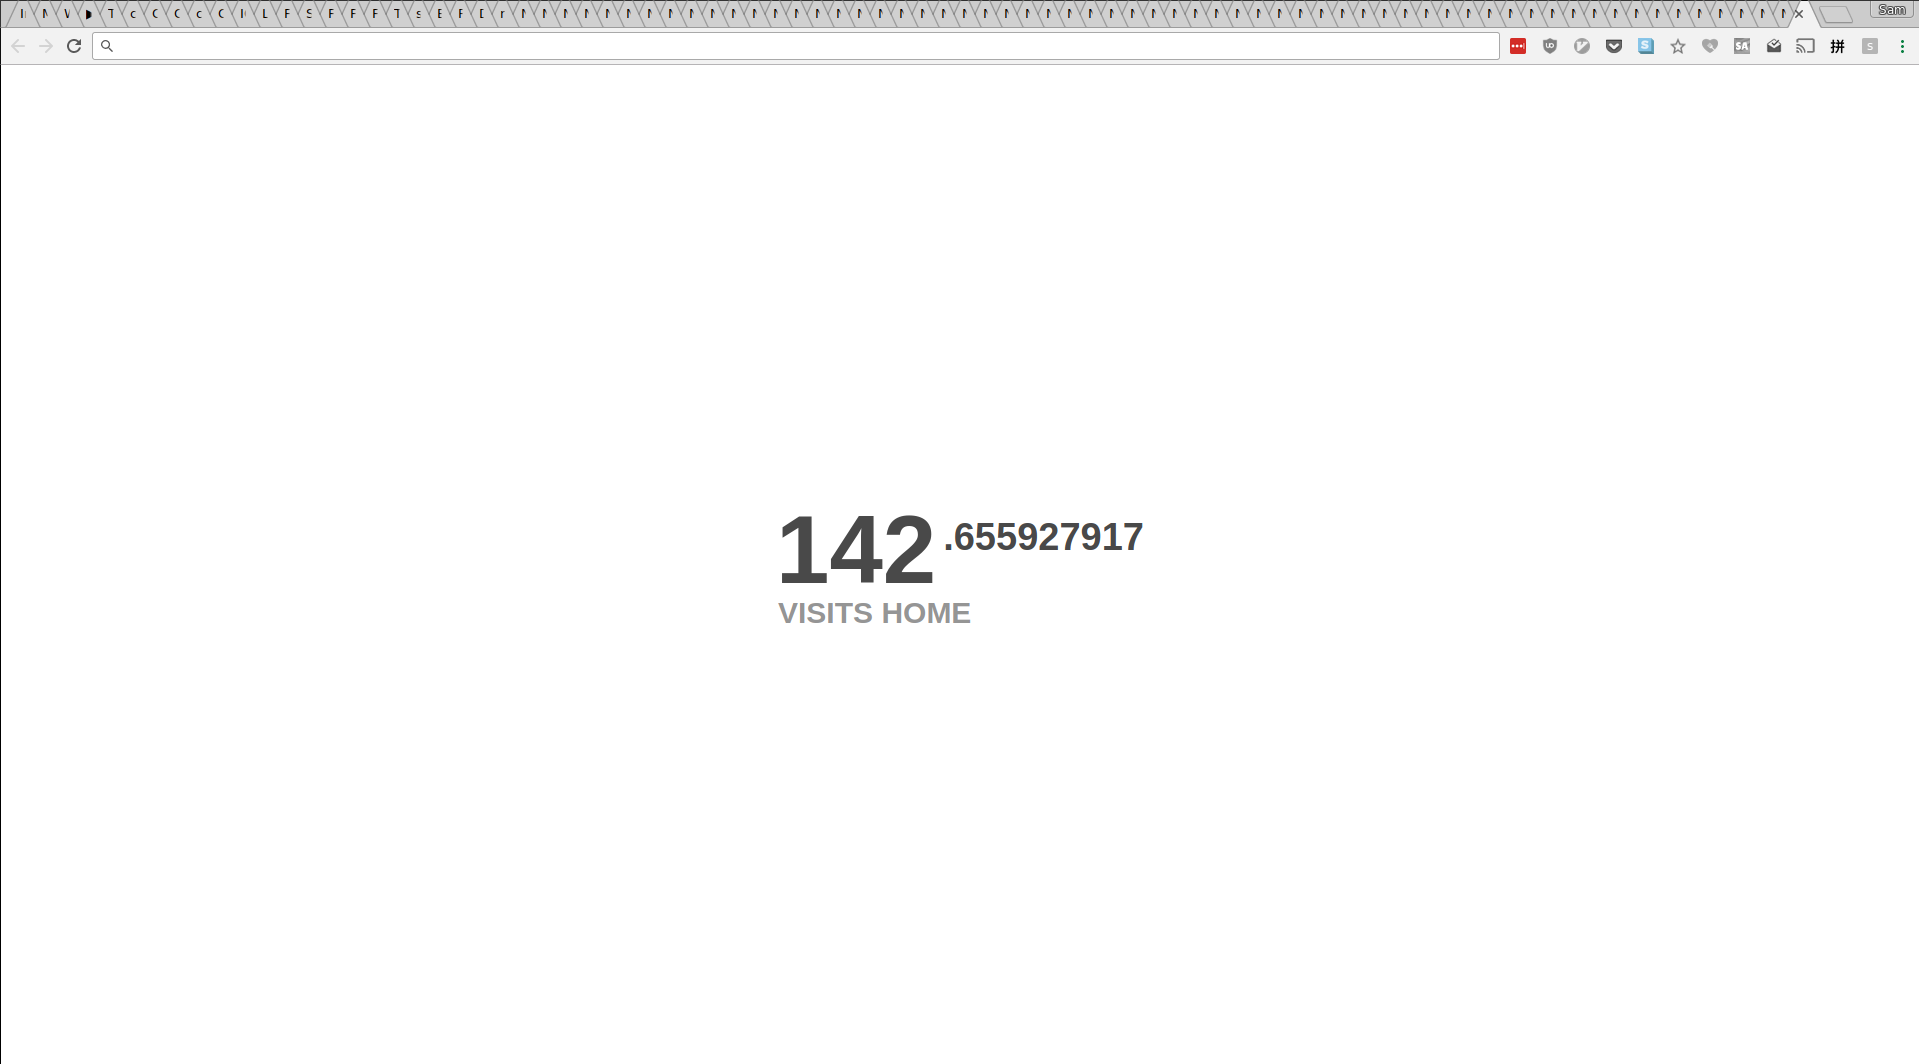
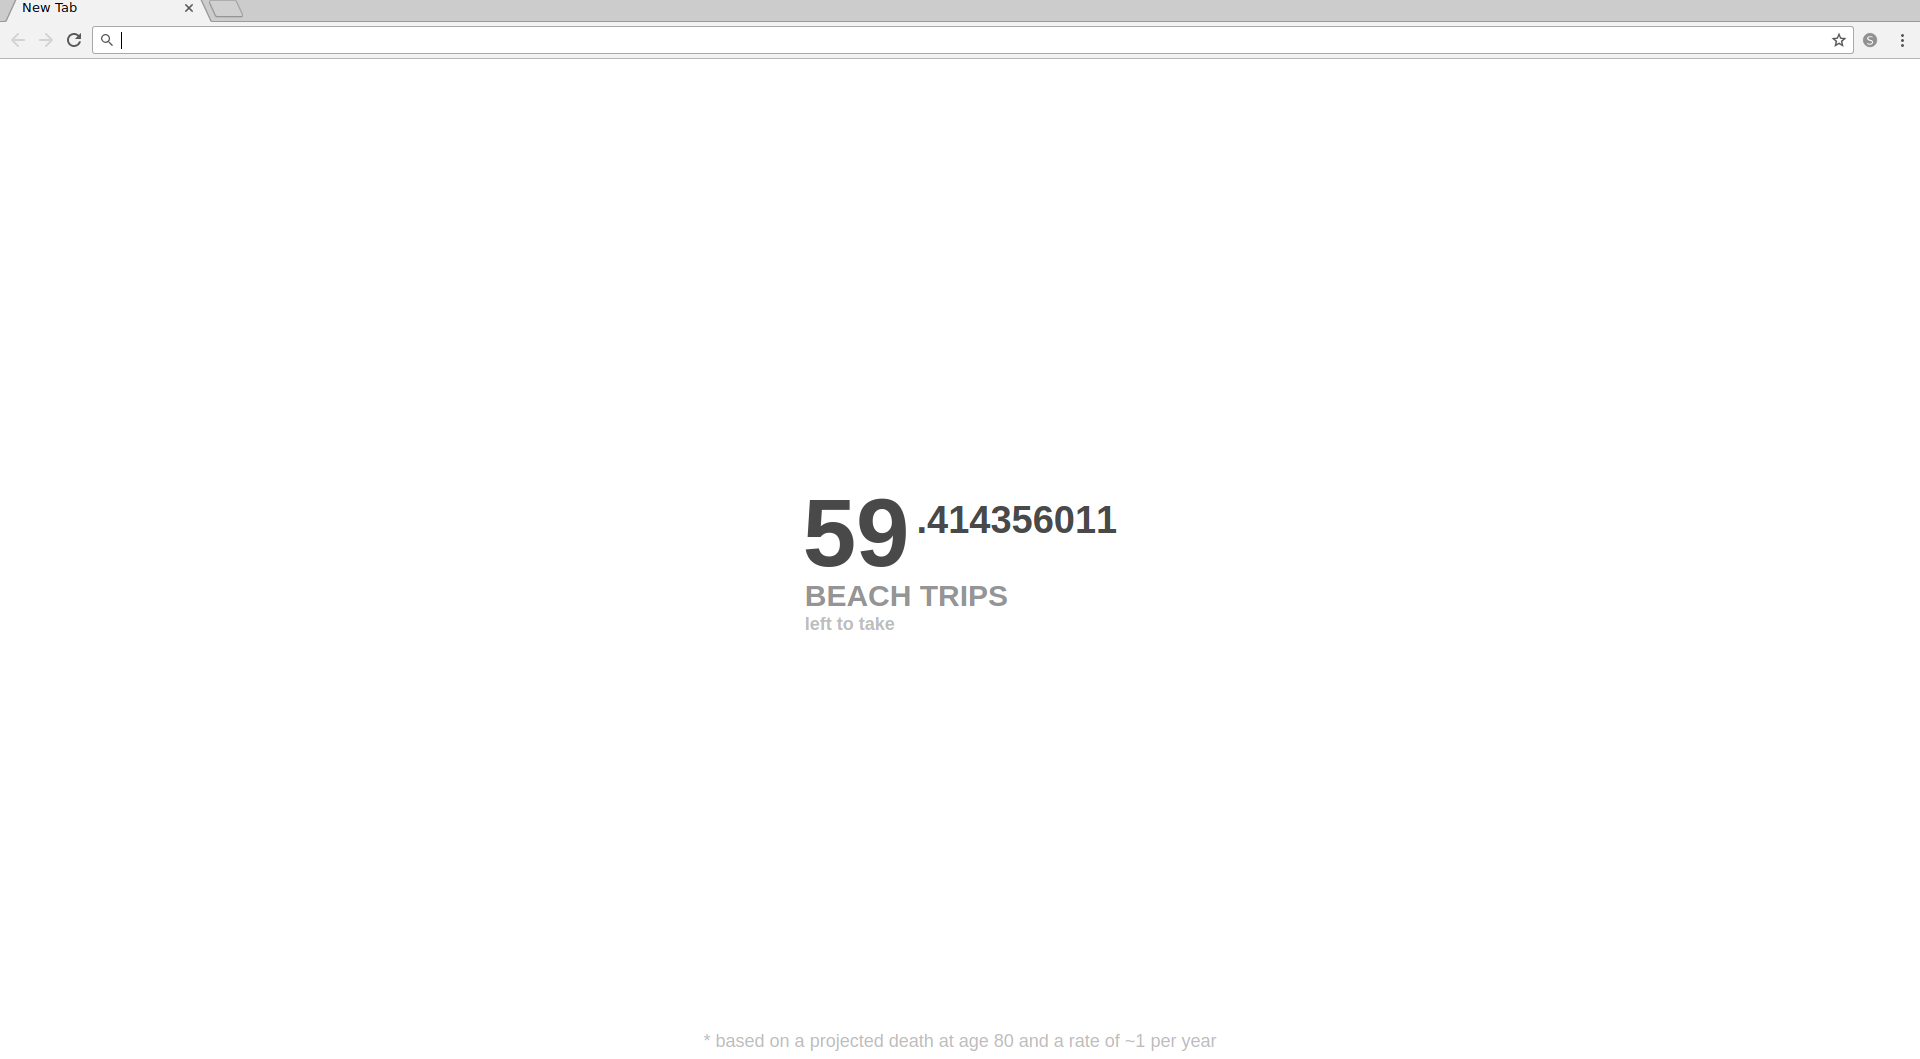
hopefully fix update bug

Changed region(s): [[0.0, 0.0, 1.0, 0.0623], [0.3997, 0.4674, 0.5842, 0.5921], [0.3689, 0.966, 0.6456, 0.9972]]

diff --git a/newtab.js b/newtab.js
@@ -5,3 +5,10 @@ var stimulus = Elm.Stimulus.fullscreen(startingState);
 stimulus.ports.setStorage.subscribe(function(model) {
     localStorage.setItem('elm-stimulus-save', JSON.stringify(model));
 });
+
+chrome.runtime.onInstalled.addListener( function (details) {
+    console.log(details);
+    if (details.reason == "update" ) {
+        localStorage.clear();
+    }
+});
